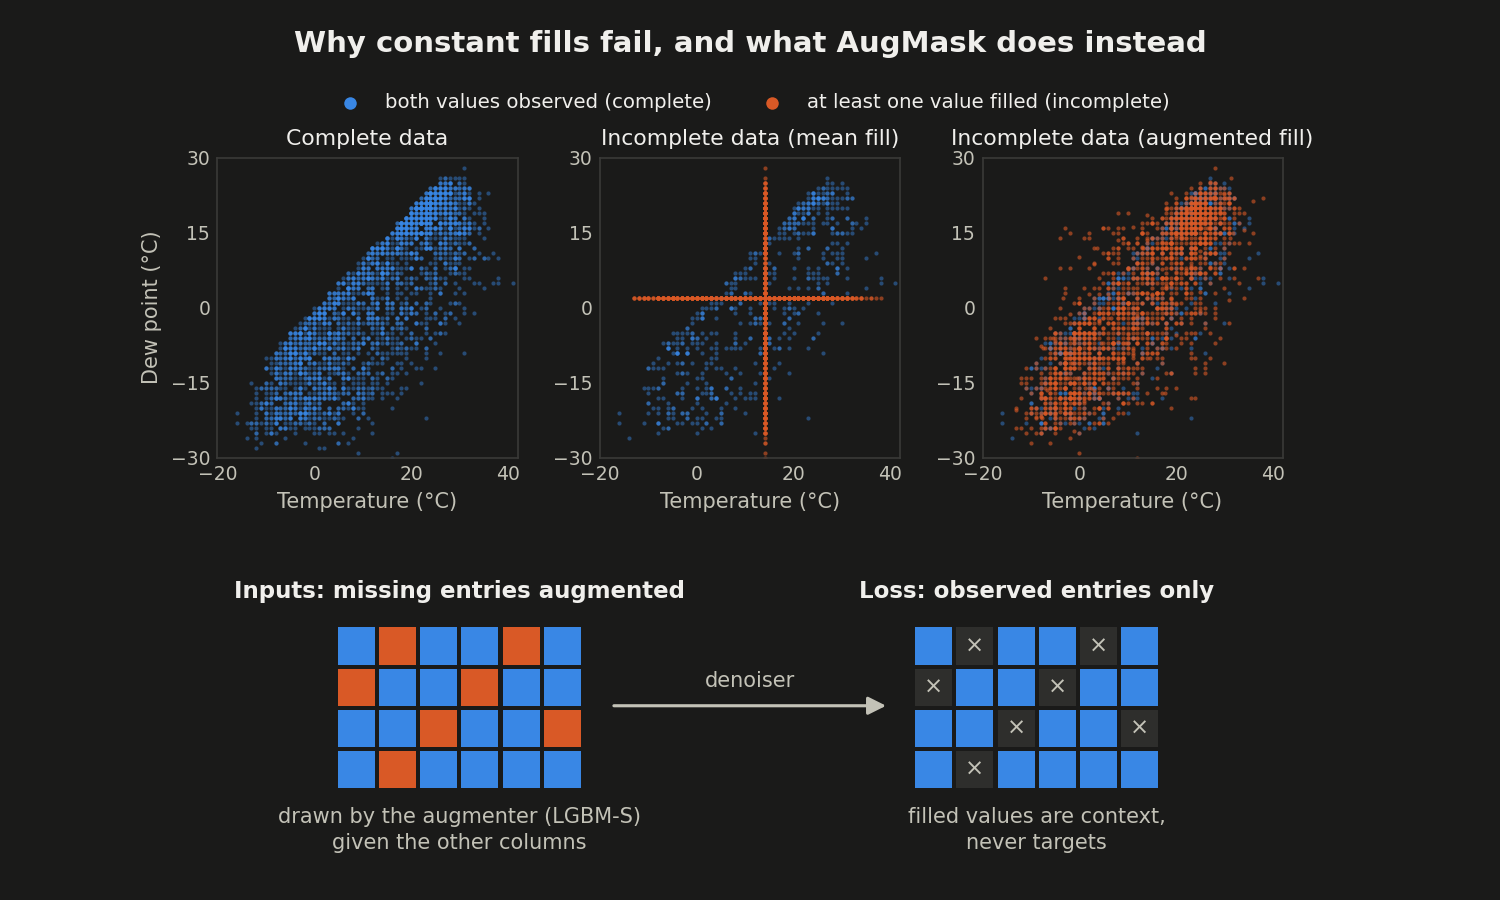
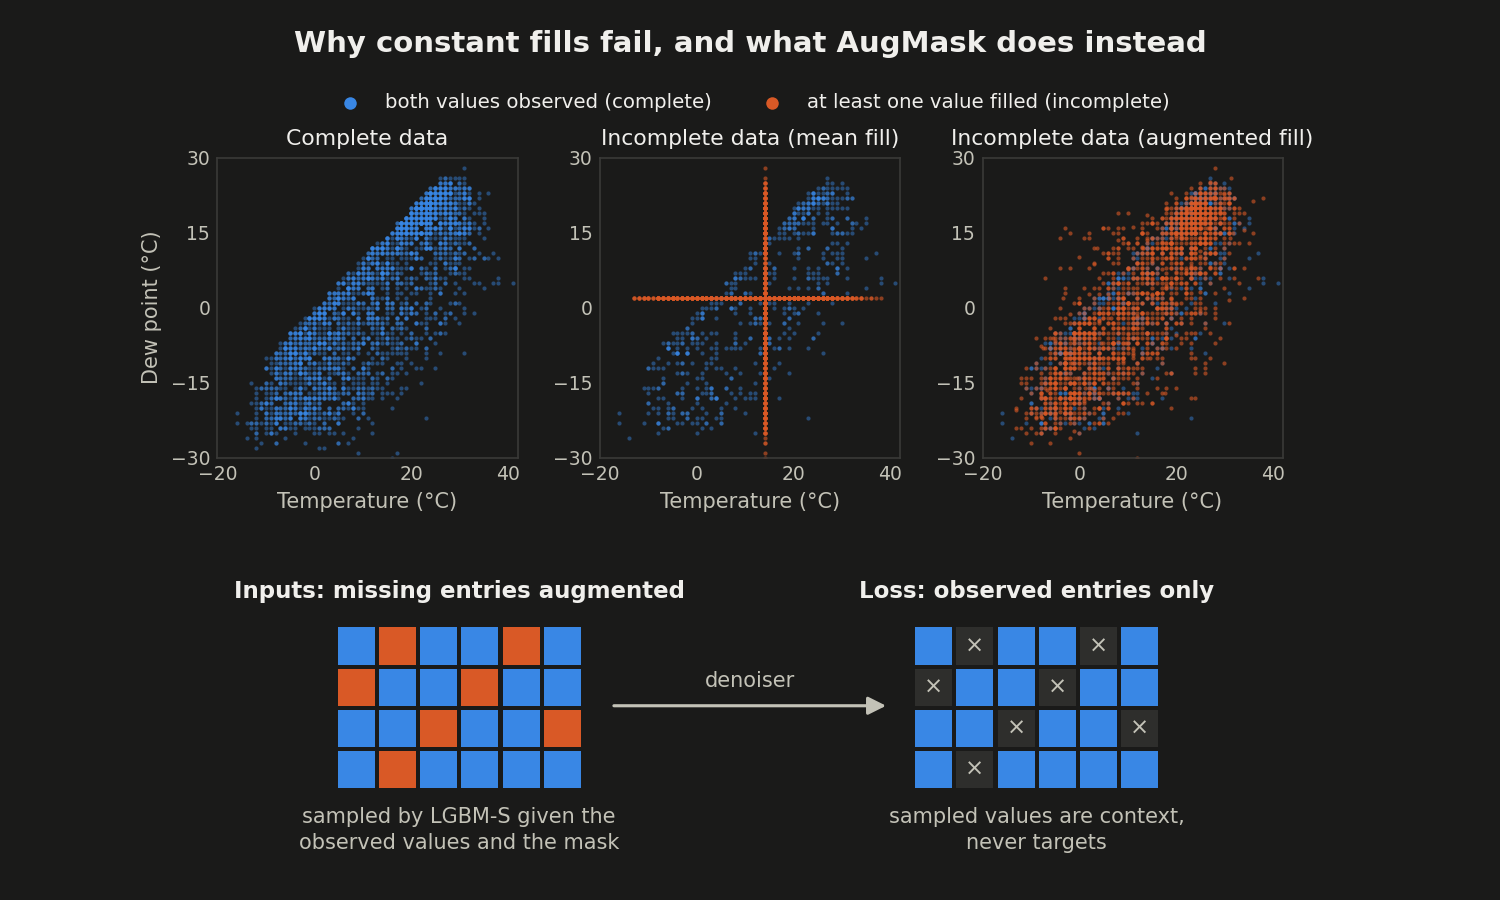
README and figure: sampling wording for augmentation

Changed region(s): [[0.184, 0.9022, 0.4293, 0.9644], [0.5827, 0.9022, 0.7973, 0.9333]]

diff --git a/scripts/plot_overview.py b/scripts/plot_overview.py
@@ -87,9 +87,9 @@ def draw(rows, data, t, path):
     ax.set_axis_off()
     mask = np.array([[1, 0, 1, 1, 0, 1], [0, 1, 1, 0, 1, 1], [1, 1, 0, 1, 1, 0], [1, 0, 1, 1, 1, 1]], bool)
     grid(ax, 0, mask, t["filled"], t, "Inputs: missing entries augmented",
-         "drawn by the augmenter (LGBM-S)\ngiven the other columns")
+         "sampled by LGBM-S given the\nobserved values and the mask")
     grid(ax, 14, mask, t["off"], t, "Loss: observed entries only",
-         "filled values are context,\nnever targets", crossed=True)
+         "sampled values are context,\nnever targets", crossed=True)
     ax.add_patch(FancyArrowPatch((6.6, 2), (13.4, 2), arrowstyle="-|>", mutation_scale=18, color=t["muted"], lw=1.5))
     ax.text(10.0, 2.35, "denoiser", ha="center", va="bottom", color=t["muted"], fontsize=10)
     ax.set(xlim=(-4.0, 24.0), ylim=(-2.6, 5.4), aspect="equal")

diff --git a/README.md b/README.md
@@ -7,13 +7,13 @@ Jungkyu Kim, Taeyoung Park, Kibok Lee. [[arXiv]](https://arxiv.org/abs/2606.0334
 
 **Diffusion models for tabular data are built for complete rows**, but real tables have missing entries. The usual workarounds fail:
 
-- **Constant fills become data.** Trained on mean-filled rows, the model learns the fills as real values. Below, filled rows collapse onto a cross at the means, and TabDiff then generates about half of its rows exactly there.
-- **Masking the loss is not enough.** Filled entries left out of the loss are still read as inputs, so the model learns from rows that real data rarely contains, such as a hot day paired with the average dew point.
+- **Constant fills become data.** A model trained on mean-filled rows *treats the fills as observed values* and learns to reproduce them. Below, the filled rows collapse onto a cross at the column means.
+- **Masking the loss is not enough.** Filled entries left out of the loss are *still read as inputs*, so the model learns from rows that real data rarely contains, such as a hot day paired with the average dew point.
 
 AugMask fixes both:
 
-1. **Augment.** Each missing entry is filled with a random draw from a model of its column given the other columns, so the inputs look like real data (right panel). This repository uses LGBM-S, a set of lightweight per-column LightGBM models, as the augmenter.
-2. **Mask.** The denoising loss is computed on observed entries only, so the filled values give context but are never targets.
+1. **Augment.** A missing entry is *unrealized data that could take many different values*, so AugMask *samples* it instead of imputing it deterministically. Each missing entry $x_j$ is drawn from a conditional model of its column, $x_j \sim \hat{p}_j(x_j \mid x_{\mathrm{obs}}, m)$: the augmenter receives the row's observed values $x_{\mathrm{obs}}$ and its missingness mask $m$ as inputs. This repository uses LGBM-S, lightweight per-column LightGBM models, as the augmenter; the sampled rows resemble the complete data (right panel).
+2. **Mask.** The denoising loss is computed on observed entries only, so the sampled values serve as *context, never as targets*.
 
 <picture>
   <source media="(prefers-color-scheme: dark)" srcset="assets/overview_dark.png">
@@ -53,7 +53,7 @@ The augmenter takes an encoded table with `n` rows:
 | `M_num`, `M_cat` | same as above | bool | `True` where observed |
 | `n_categories` | `d_cat` | list of int | number of categories `K_j` of each categorical column |
 
-`augment` returns `X_num` and `X_cat` with every missing entry filled; each `draw` gives an independent fill, with the observed entries unchanged. In this repository the backbones then receive the fills, one per training step, as `X_num` (float32, standardized) and `X_cat` (int64 codes), together with the masks, with the target as one of the columns (the first numerical column for regression, the first categorical column for classification).
+`augment` returns `X_num` and `X_cat` with every missing entry filled; each `draw` gives an independent fill, with the observed entries unchanged. In this repository, the backbones receive one fill per training step: `X_num` (float32, standardized) and `X_cat` (int64 codes), together with the masks. The target is one of the columns (the first numerical column for regression, the first categorical column for classification).
 
 ### Your own augmenter
 
@@ -92,8 +92,8 @@ Methods are `{tabddpm,cdtd,tabdiff}-{noaug,meanmask,augfull,augmask}`, plus the 
 |---|---|---|
 | `noaug` | train mean / mode | all entries |
 | `meanmask` | train mean / mode | observed entries (similar to [MissDiff](https://arxiv.org/abs/2307.00467); Ouyang et al., 2023) |
-| `augfull` (ours) | augmented draws (LGBM-S) | all entries |
-| `augmask` (ours) | augmented draws (LGBM-S) | observed entries |
+| `augfull` (ours) | samples from the augmenter (LGBM-S) | all entries |
+| `augmask` (ours) | samples from the augmenter (LGBM-S) | observed entries |
 
 **Alternating fills.** For improved performance, this implementation gives `augfull` and `augmask` 5 independent fills of the missing inputs and alternates between them during training, one per step (`--fills 5`, the default). `--fills 1` uses the single fill of the paper. The gain is largest at high missing rates.
 
@@ -218,7 +218,7 @@ Adult and Beijing, MCAR with 50% and 90% missing, one seed, averaged over the fo
 2. **Split** each table 60/20/20 into train, validation and test.
 3. **Mask** train and validation entries (the target included) completely at random (MCAR) or depending on the other columns (MAR); the test split stays complete.
 4. **Encode**, using the observed train entries: numerical columns are quantile-normal transformed, categorical columns are integer encoded.
-5. **Fill** the missing entries with the train mean / mode, or with augmented draws (LGBM-S by default; 5 fills, alternated during training).
+5. **Fill** the missing entries with the train mean / mode, or *sample* them with the augmenter (LGBM-S by default; 5 fills, alternated during training).
 6. **Standardize** the numerical columns.
 7. **Train** the backbone and sample as many rows as the train split.
 8. **Map** the samples back to the original columns and values.
@@ -258,7 +258,7 @@ tests/                   # pipeline, missingness, baselines, evaluation, each ba
 
 The data pipeline was rebuilt for this release (60/20/20 split, a new MAR generator), so numbers differ slightly from the paper. Most model and training settings follow Appendix C.6 of the paper. The exception is alternating fills: AugFull and AugMask alternate between 5 fills of the missing inputs during training, which performs better at high missing rates in this implementation (`--fills 1` restores the paper's single fill). LGBM-S follows Algorithm 1; `LGBMSAugmenter(log_var_offset=augmask.augment.LOG_CHI2_BIAS)` optionally corrects the downward bias of its variance model.
 
-LGBM-S is a per-coordinate augmenter: it draws each missing entry independently given the observed ones, so it does not model the dependence between entries that are missing together. An augmenter that samples the missing coordinates jointly is a natural direction for future work, and can be plugged in as described in [Your own augmenter](#your-own-augmenter).
+LGBM-S is a per-coordinate augmenter: it samples each missing entry independently given the observed values and the mask, so it does not model the dependence between entries that are missing together. An augmenter that samples the missing coordinates jointly is a natural direction for future work, and can be plugged in as described in [Your own augmenter](#your-own-augmenter).
 
 ## 📚 Citation
 
